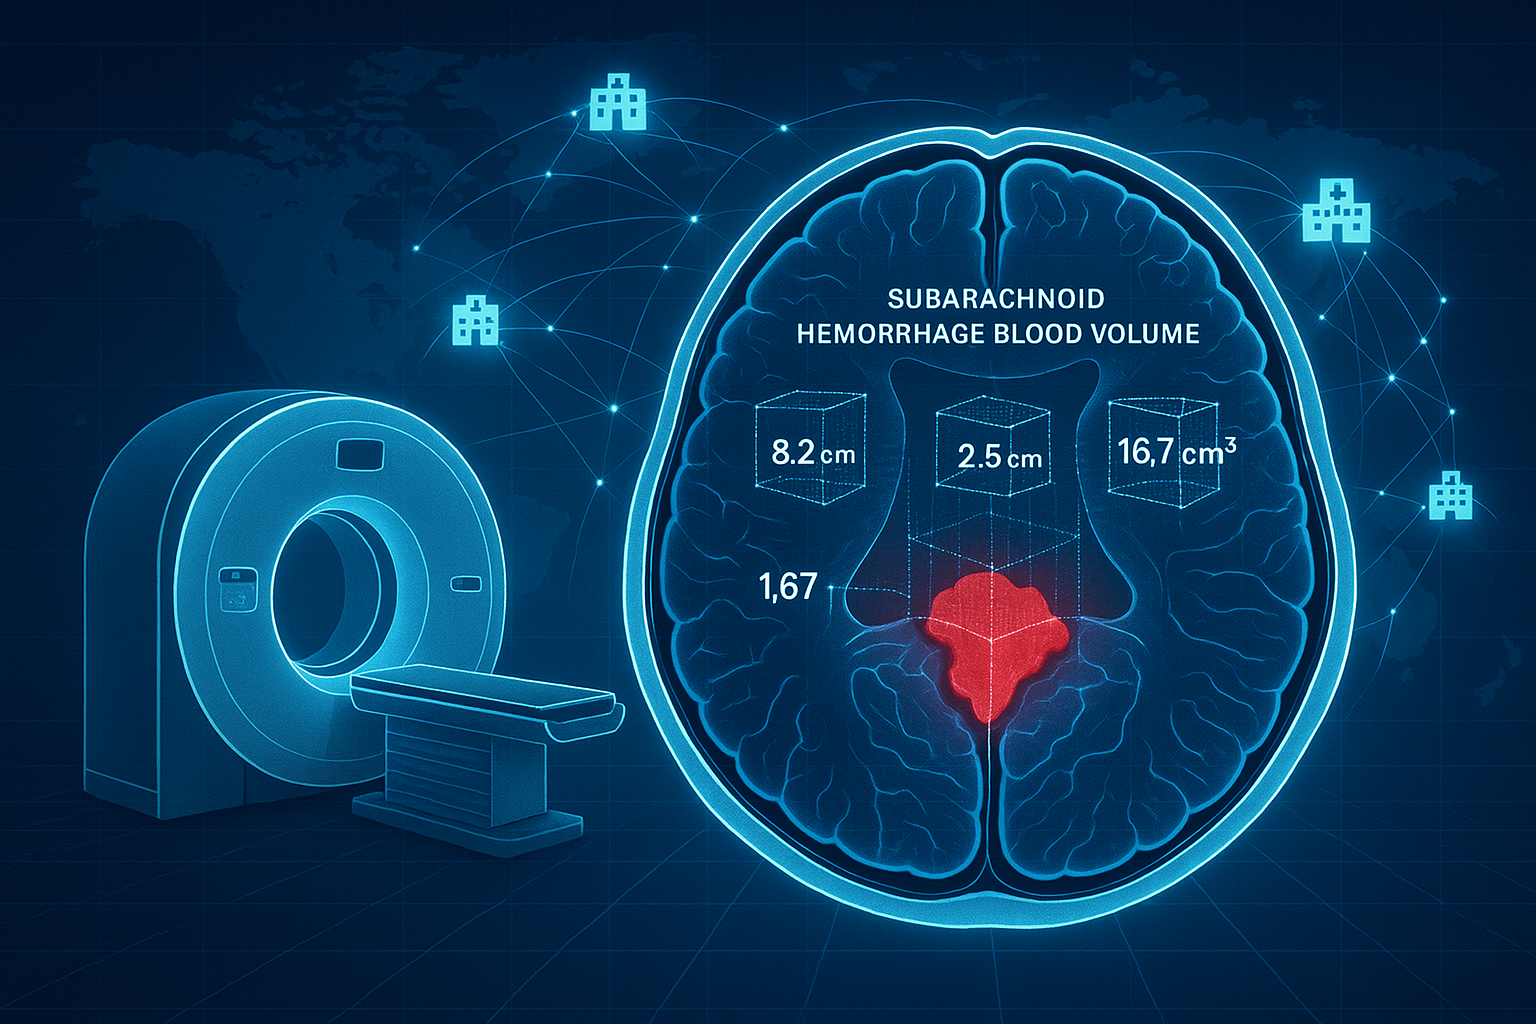
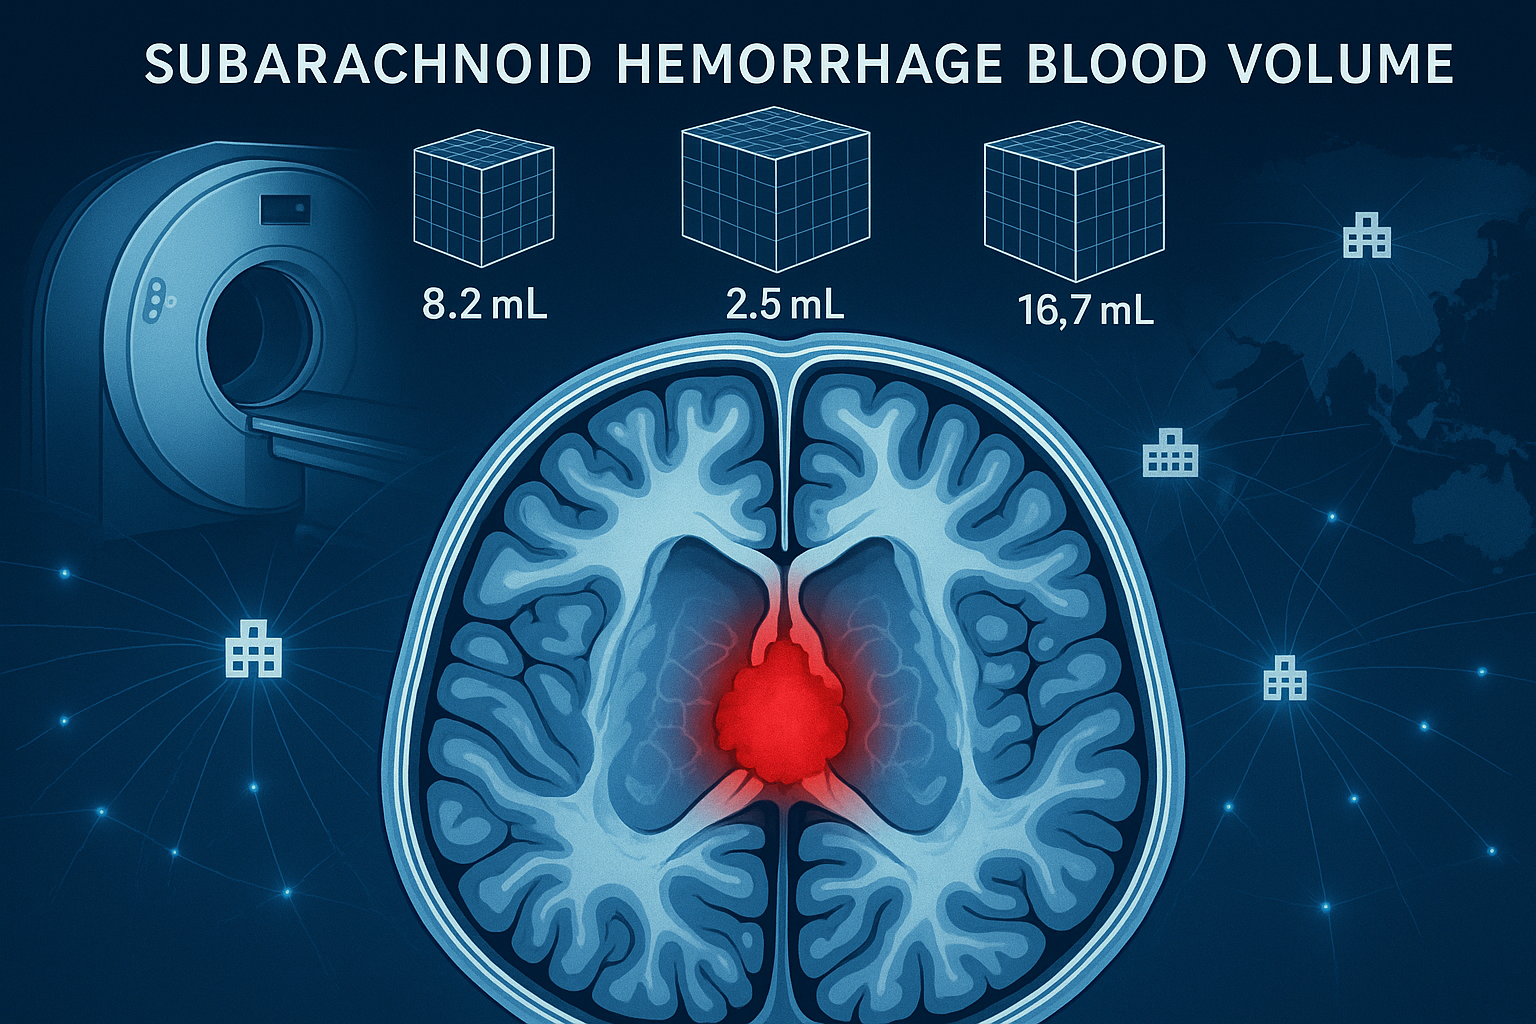
Update hero image: remove 1.67, resize 16.7 mL cube to 2x size, change cm³ to mL

diff --git a/images/index.html b/images/index.html
@@ -15,7 +15,7 @@
 <p>Output: <code>/home/mayo-strx/sahvai/images</code></p>
 <div class="grid">
 <figure>
-  <a href="001-professional-medical-illustration-a-futu.png"><img src="001-professional-medical-illustration-a-futu.png" loading="lazy" /></a>
-  <figcaption>Professional medical illustration: A futuristic digital brain cross-section showing subarachnoid hemorrhage blood volume (SAHV) with mathematical volumetric measurements overlaid in glowing blue data visualizations. A modern CT scanner on the left side. Global network connections radiating outward connecting to hospital icons across continents, representing international collaboration. Clean medical aesthetic with deep blues, whites, and subtle red for blood. Scientific, precise, hope-inspiring, cutting-edge technology. High-end medical journal cover style.</figcaption>
+  <a href="001-professional-medical-illustration-futuri.png"><img src="001-professional-medical-illustration-futuri.png" loading="lazy" /></a>
+  <figcaption>Professional medical illustration: Futuristic digital brain cross-section (axial view) showing subarachnoid hemorrhage as a red blood volume in the center. Above the brain, display THREE wireframe cubes with labels: LEFT cube '8.2 mL' (small), MIDDLE cube '2.5 mL' (tiny), RIGHT cube '16.7 mL' (TWICE the size of the left cube). Modern CT scanner on the left edge. Global network connections radiating outward to hospital building icons across continents. Title text 'SUBARACHNOID HEMORRHAGE BLOOD VOLUME' at top. Clean medical aesthetic: deep blues, whites, subtle red blood. Scientific, precise, high-end medical journal style. NO other numbers or text except the three cube labels.</figcaption>
 </figure>
 </div>
